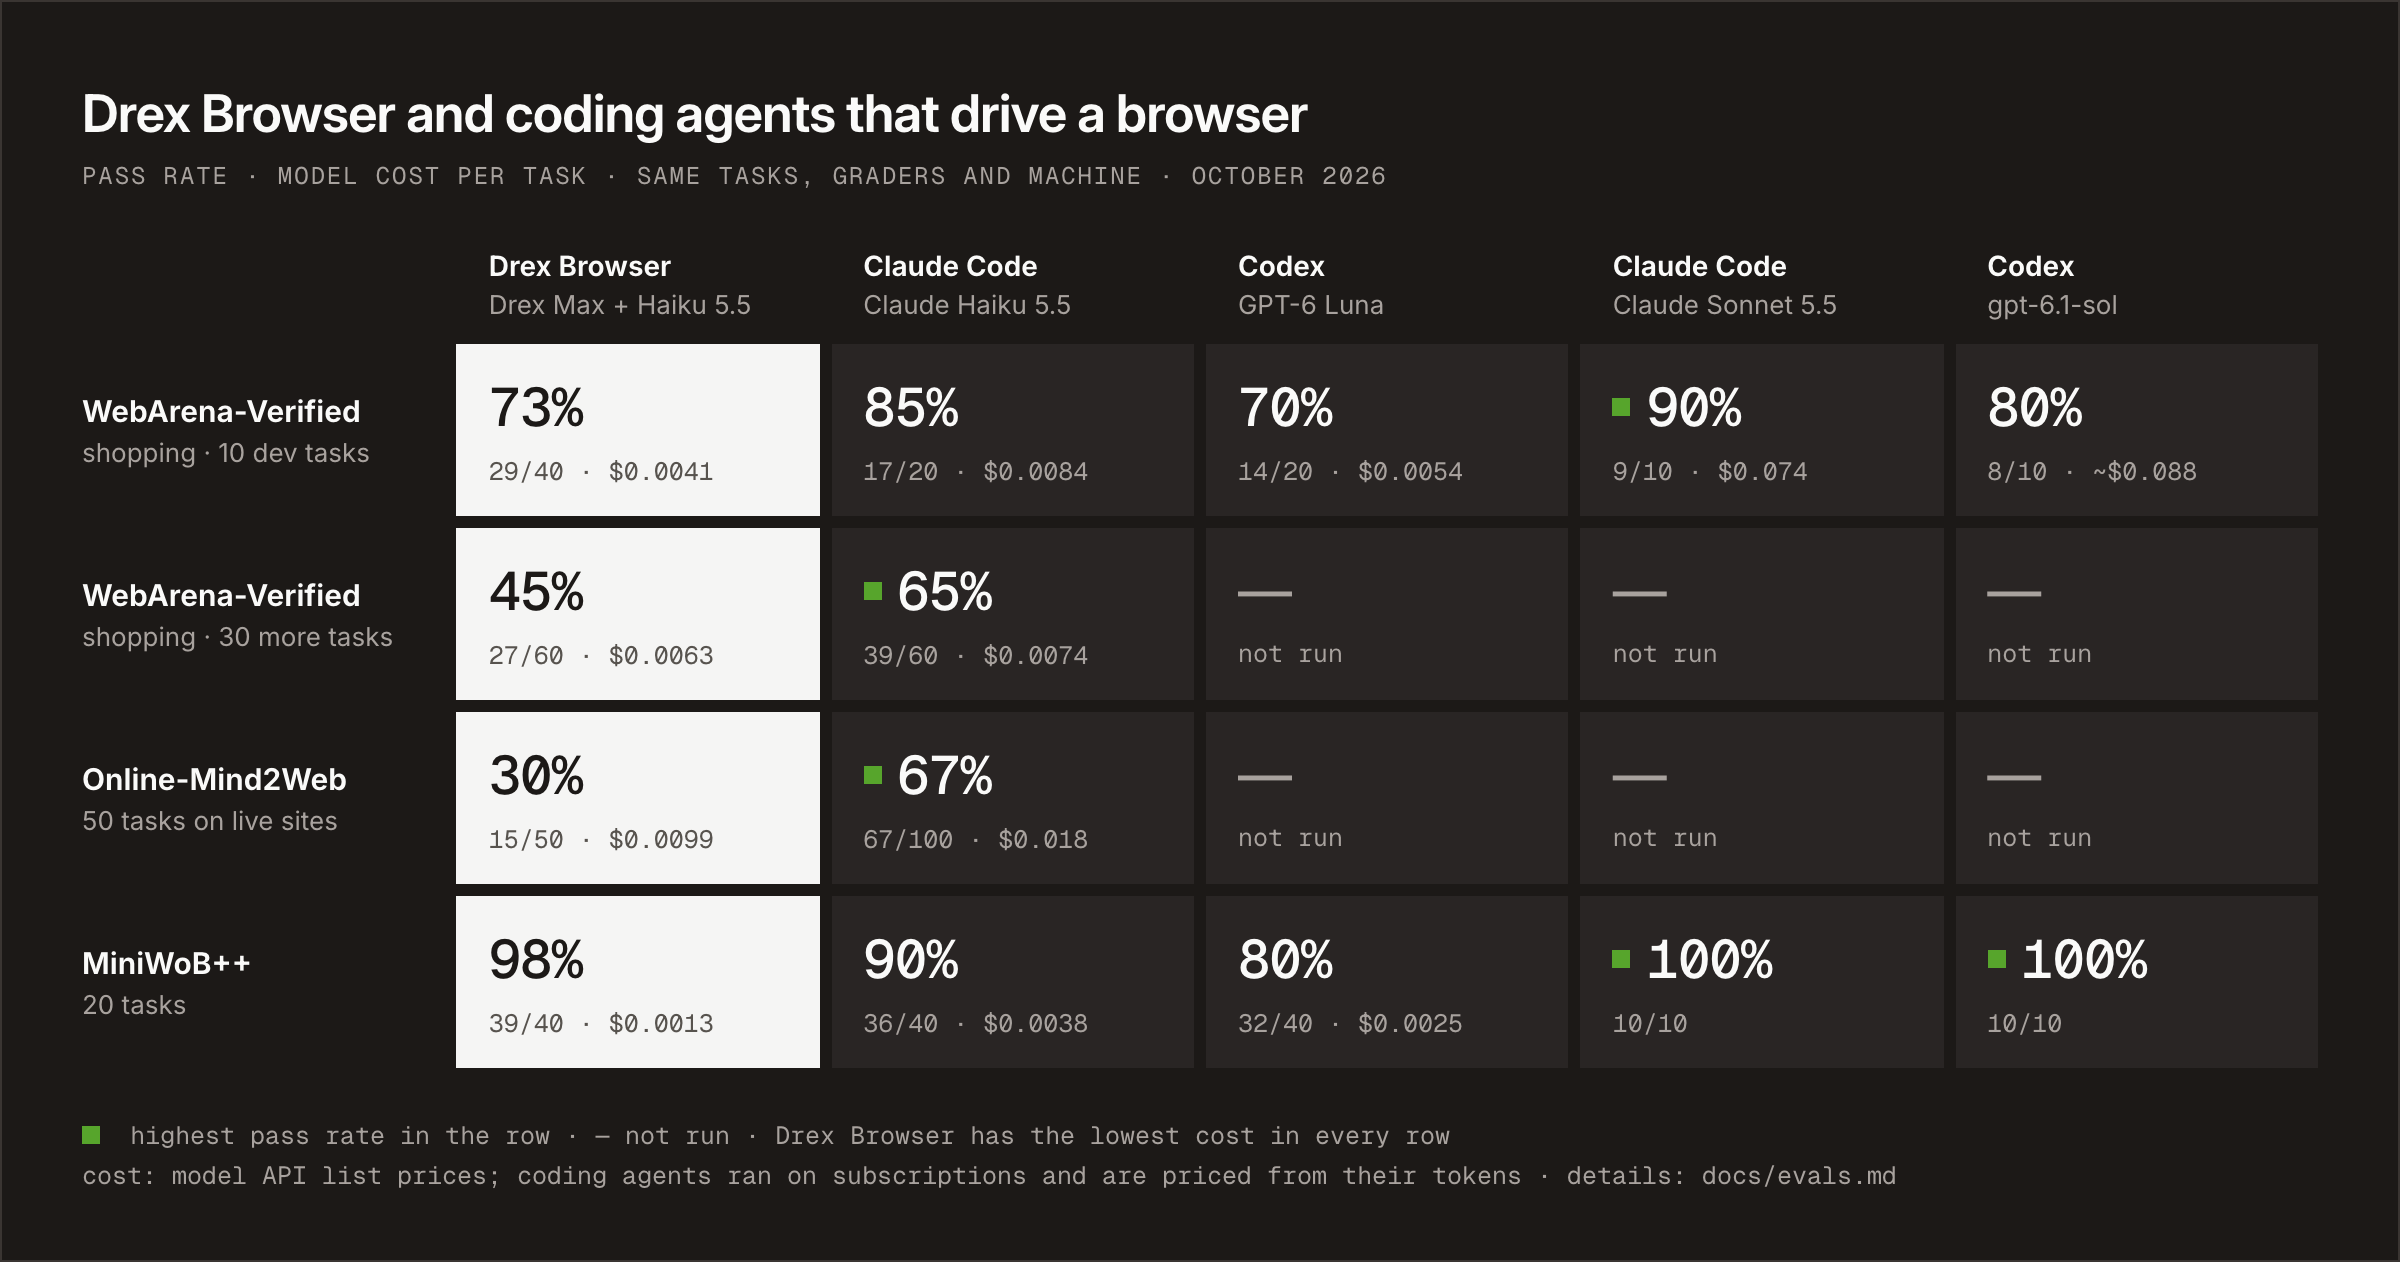
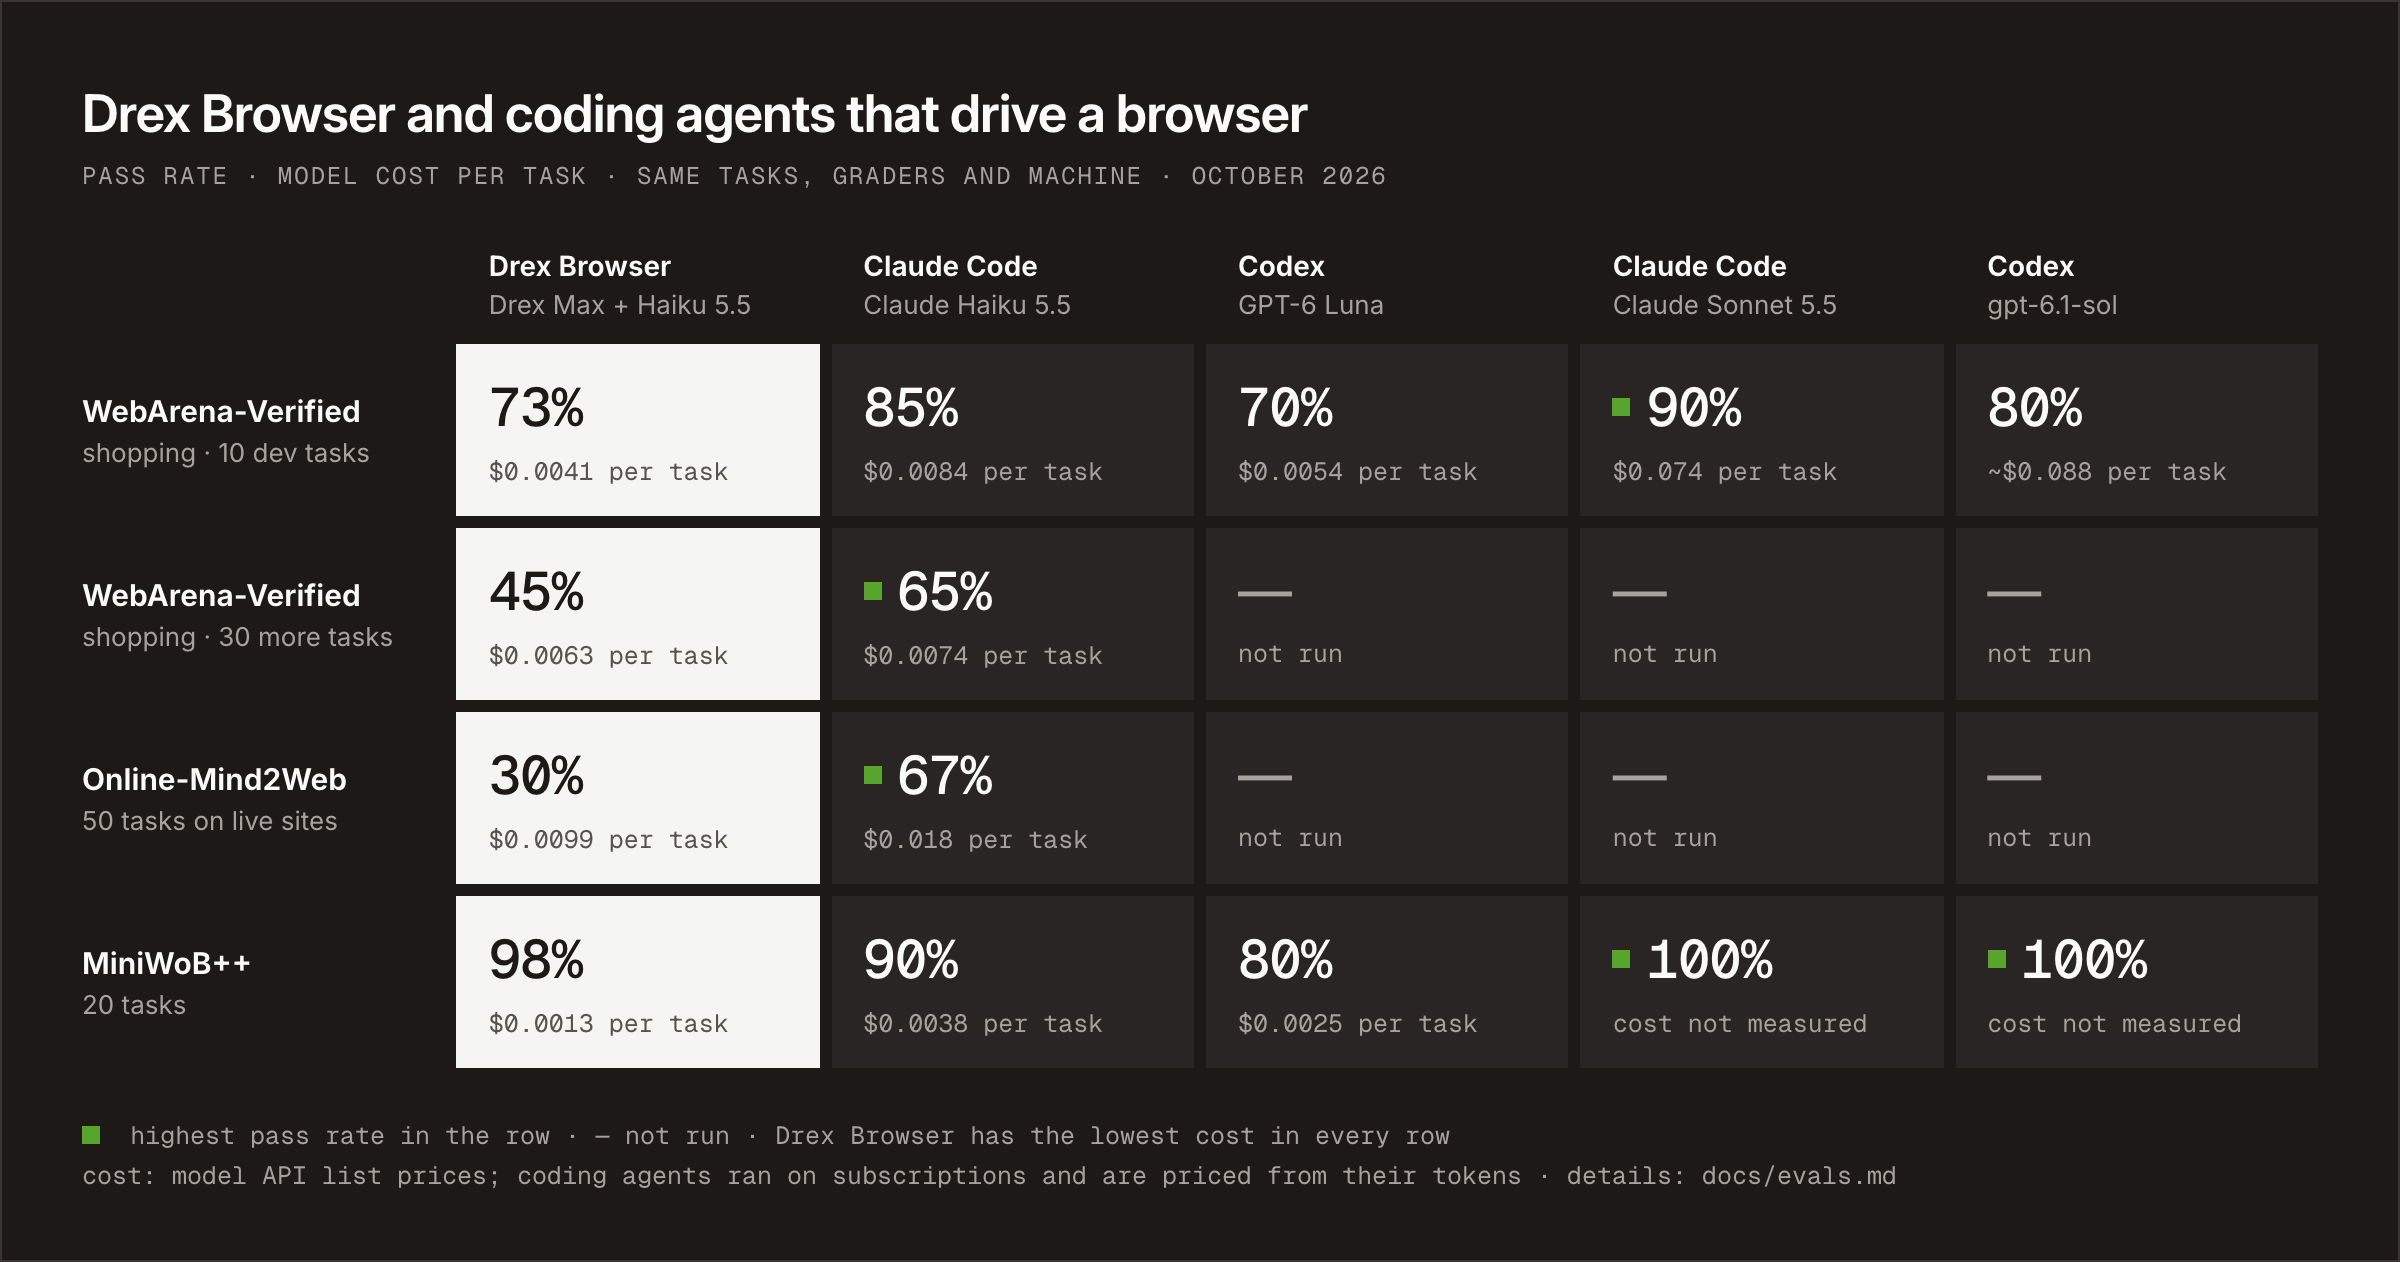
README: show pass rates and cost per task, not raw try counts
The agents ran each task a different number of times (Drex Browser 4 tries on the
development set, the coding agents 1 or 2), so counts such as 29/40 and 9/10 did
not compare. The README's image and table now show the pass rate and the cost per
task only; docs/evals.md lists the tasks and tries behind each number.

diff --git a/docs/evals.md b/docs/evals.md
@@ -34,27 +34,28 @@ excludes the cost of running the browser and, on Online-Mind2Web, the judge.
 
 ## Latest results
 
-Drex Browser 0.1.0, measured on 20 October 2026. The coding agents, Claude Code and Codex, were given the same task
-text, a Chromium window of their own and their usual shell and file tools, and measured on 19 and 20 October 2026 with
-the same tasks, graders and machine.
+A try is one attempt at one task; the pass rate counts every try, and cost and time are per try. Drex Browser 0.1.0
+was measured on 20 October 2026, with more tries per task than the coding agents had. The coding agents, Claude Code
+and Codex, were given the same task text, a Chromium window of their own and their usual shell and file tools, and
+measured on 19 and 20 October 2026 with the same tasks, graders and machine.
 
-| Benchmark | Agent | Solved | Pass rate | $ per attempt | s per attempt |
+| Benchmark | Agent | Tasks × tries | Pass rate | $ per task | s per task |
 | --- | --- | ---: | ---: | ---: | ---: |
-| WebArena-Verified, development set (10 tasks) | **Drex Browser** | 29/40 | 73% | 0.0041 | 36 |
-| | Claude Code with Claude Haiku 5.5 | 17/20 | 85% | 0.0084 | 89 |
-| | Codex with gpt-6-luna | 14/20 | 70% | 0.0054 | 69 |
-| | Claude Code with Claude Sonnet 5.5 | 9/10 | 90% | 0.074 | 55 |
-| | Codex with gpt-6.1-sol | 8/10 | 80% | 0.073–0.103 | 59 |
-| WebArena-Verified, HOLDOUT-1 (30 tasks) | **Drex Browser** | 27/60 | 45% | 0.0063 | 54 |
-| | Claude Code with Claude Haiku 5.5 | 39/60 | 65% | 0.0074 | 85 |
-| Online-Mind2Web (50 tasks) | **Drex Browser** | 15/50 | 30% | 0.0099 | 86 |
-| | Claude Code with Claude Haiku 5.5 (two runs) | 67/100 | 67% | 0.018 | 168 |
-| MiniWoB++ (20 tasks) | **Drex Browser** | 39/40 | 98% | 0.0013 | 12 |
-| | Claude Code with Claude Haiku 5.5 | 36/40 | 90% | 0.0038 | |
-| | Codex with gpt-6-luna | 32/40 | 80% | 0.0025 | |
-| | Claude Code with Claude Sonnet 5.5 | 10/10 | 100% | | |
-| | Codex with gpt-6.1-sol | 10/10 | 100% | | |
-| Local test pages (13 tasks) | **Drex Browser** | 24/26 | 92% | 0.0035 | 24 |
+| WebArena-Verified, development set (10 tasks) | **Drex Browser** | 10 × 4 | 73% (29 of 40) | 0.0041 | 36 |
+| | Claude Code with Claude Haiku 5.5 | 10 × 2 | 85% (17 of 20) | 0.0084 | 89 |
+| | Codex with gpt-6-luna | 10 × 2 | 70% (14 of 20) | 0.0054 | 69 |
+| | Claude Code with Claude Sonnet 5.5 | 10 × 1 | 90% (9 of 10) | 0.074 | 55 |
+| | Codex with gpt-6.1-sol | 10 × 1 | 80% (8 of 10) | 0.073–0.103 | 59 |
+| WebArena-Verified, HOLDOUT-1 (30 tasks) | **Drex Browser** | 30 × 2 | 45% (27 of 60) | 0.0063 | 54 |
+| | Claude Code with Claude Haiku 5.5 | 30 × 2 | 65% (39 of 60) | 0.0074 | 85 |
+| Online-Mind2Web (50 tasks) | **Drex Browser** | 50 × 1 | 30% (15 of 50) | 0.0099 | 86 |
+| | Claude Code with Claude Haiku 5.5 (two runs) | 50 × 2 | 67% (67 of 100) | 0.018 | 168 |
+| MiniWoB++ (20 tasks) | **Drex Browser** | 20 × 2 | 98% (39 of 40) | 0.0013 | 12 |
+| | Claude Code with Claude Haiku 5.5 | 20 × 2 | 90% (36 of 40) | 0.0038 | |
+| | Codex with gpt-6-luna | 20 × 2 | 80% (32 of 40) | 0.0025 | |
+| | Claude Code with Claude Sonnet 5.5 | 10 tries | 100% (10 of 10) | | |
+| | Codex with gpt-6.1-sol | 10 tries | 100% (10 of 10) | | |
+| Local test pages (13 tasks) | **Drex Browser** | 13 × 2 | 92% (24 of 26) | 0.0035 | 24 |
 
 How to read these numbers:
 

diff --git a/README.md b/README.md
@@ -107,15 +107,15 @@ debugger. Close the bar, or press **Stop**, to end a run.
   <img alt="Pass rate and model cost per task for Drex Browser and for coding agents that drive a browser, on WebArena-Verified, Online-Mind2Web and MiniWoB++; the numbers are in the table below." src="docs/assets/benchmarks-light.png">
 </picture>
 
-<sub>🟩 highest pass rate in the row · — not run · cost is the model cost per task at API list prices ·
-[methodology](docs/evals.md)</sub>
+<sub>Pass rate, with the model cost per task at API list prices below it · 🟩 highest pass rate in the row ·
+— not run · [methodology](docs/evals.md)</sub>
 
 | Benchmark | <mark>**Drex Browser**</mark><br><sub>Drex Max + Haiku 5.5</sub> | <sub>Claude Code<br>Haiku 5.5</sub> | <sub>Codex<br>GPT-6 Luna</sub> | <sub>Claude Code<br>Sonnet 5.5</sub> | <sub>Codex<br>gpt-6.1-sol</sub> |
 | --- | ---: | ---: | ---: | ---: | ---: |
-| **WebArena-Verified**<br><sub>shopping · 10 dev tasks</sub> | <mark>**73%**</mark><br><sub>29/40 · $0.0041</sub> | 85%<br><sub>17/20 · $0.0084</sub> | 70%<br><sub>14/20 · $0.0054</sub> | 🟩&nbsp;**90%**<br><sub>9/10 · $0.074</sub> | 80%<br><sub>8/10 · ~$0.088</sub> |
-| **WebArena-Verified**<br><sub>shopping · 30 more tasks</sub> | <mark>**45%**</mark><br><sub>27/60 · $0.0063</sub> | 🟩&nbsp;**65%**<br><sub>39/60 · $0.0074</sub> | — | — | — |
-| **Online-Mind2Web**<br><sub>50 tasks on live sites</sub> | <mark>**30%**</mark><br><sub>15/50 · $0.0099</sub> | 🟩&nbsp;**67%**<br><sub>67/100 · $0.018</sub> | — | — | — |
-| **MiniWoB++**<br><sub>20 tasks</sub> | <mark>**98%**</mark><br><sub>39/40 · $0.0013</sub> | 90%<br><sub>36/40 · $0.0038</sub> | 80%<br><sub>32/40 · $0.0025</sub> | 🟩&nbsp;**100%**<br><sub>10/10</sub> | 🟩&nbsp;**100%**<br><sub>10/10</sub> |
+| **WebArena-Verified**<br><sub>shopping · 10 dev tasks</sub> | <mark>**73%**</mark><br><sub>$0.0041 per task</sub> | 85%<br><sub>$0.0084 per task</sub> | 70%<br><sub>$0.0054 per task</sub> | 🟩&nbsp;**90%**<br><sub>$0.074 per task</sub> | 80%<br><sub>~$0.088 per task</sub> |
+| **WebArena-Verified**<br><sub>shopping · 30 more tasks</sub> | <mark>**45%**</mark><br><sub>$0.0063 per task</sub> | 🟩&nbsp;**65%**<br><sub>$0.0074 per task</sub> | — | — | — |
+| **Online-Mind2Web**<br><sub>50 tasks on live sites</sub> | <mark>**30%**</mark><br><sub>$0.0099 per task</sub> | 🟩&nbsp;**67%**<br><sub>$0.018 per task</sub> | — | — | — |
+| **MiniWoB++**<br><sub>20 tasks</sub> | <mark>**98%**</mark><br><sub>$0.0013 per task</sub> | 90%<br><sub>$0.0038 per task</sub> | 80%<br><sub>$0.0025 per task</sub> | 🟩&nbsp;**100%**<br><sub>cost not measured</sub> | 🟩&nbsp;**100%**<br><sub>cost not measured</sub> |
 
 Drex Browser has the lowest cost in every row and leads on short tasks (MiniWoB++). On longer tasks, the 30 further
 WebArena tasks and the live sites of Online-Mind2Web, it trails Claude Code with Haiku. Closing that gap is the work in
